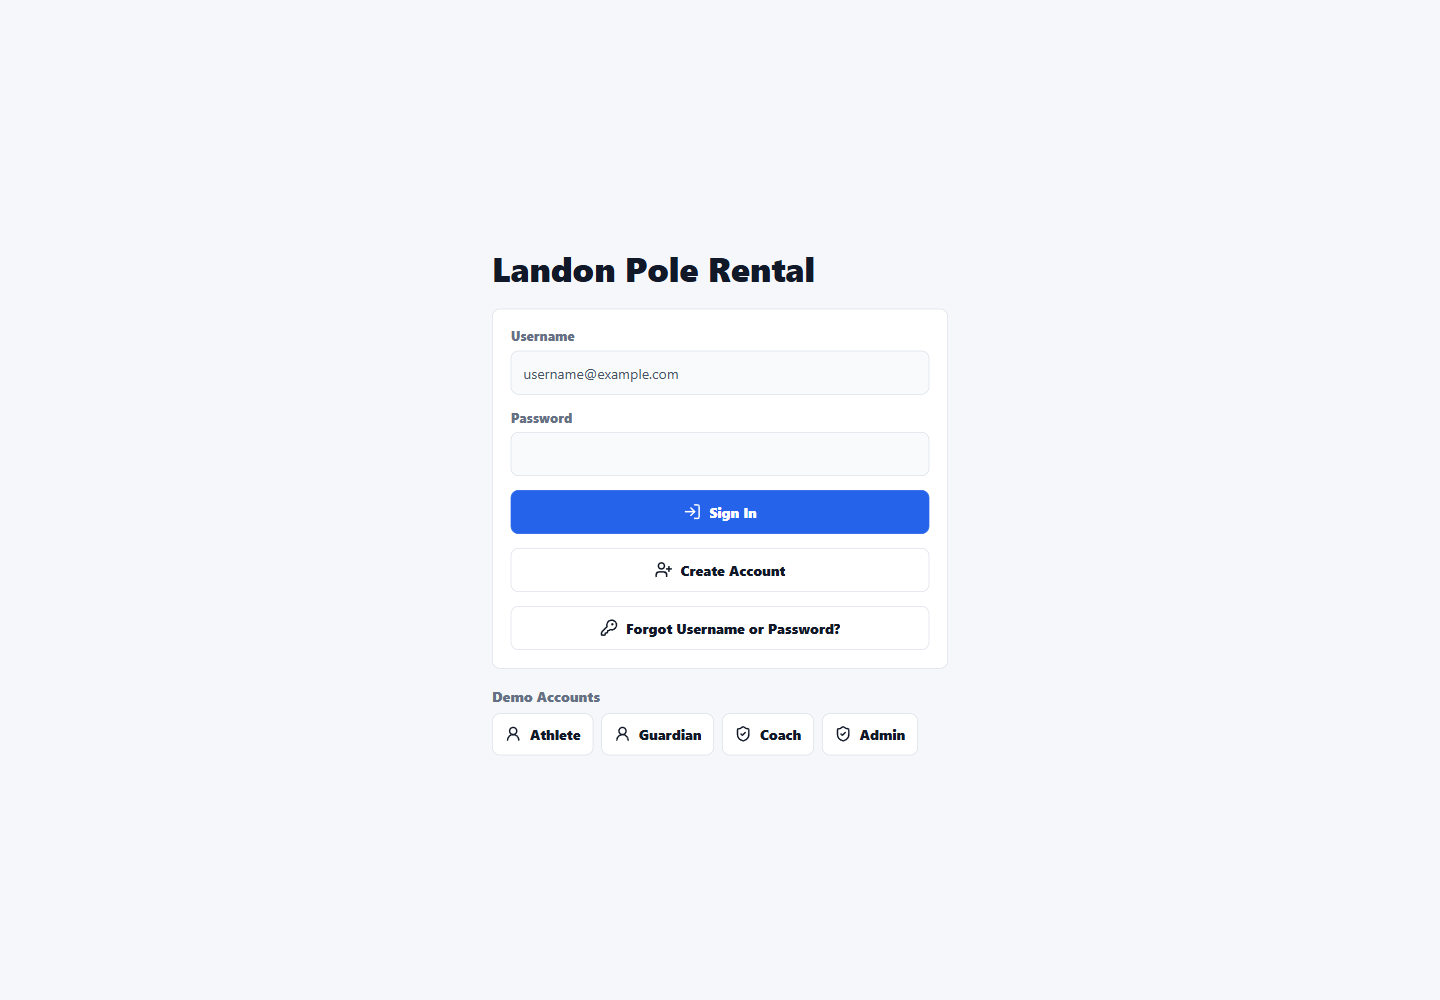
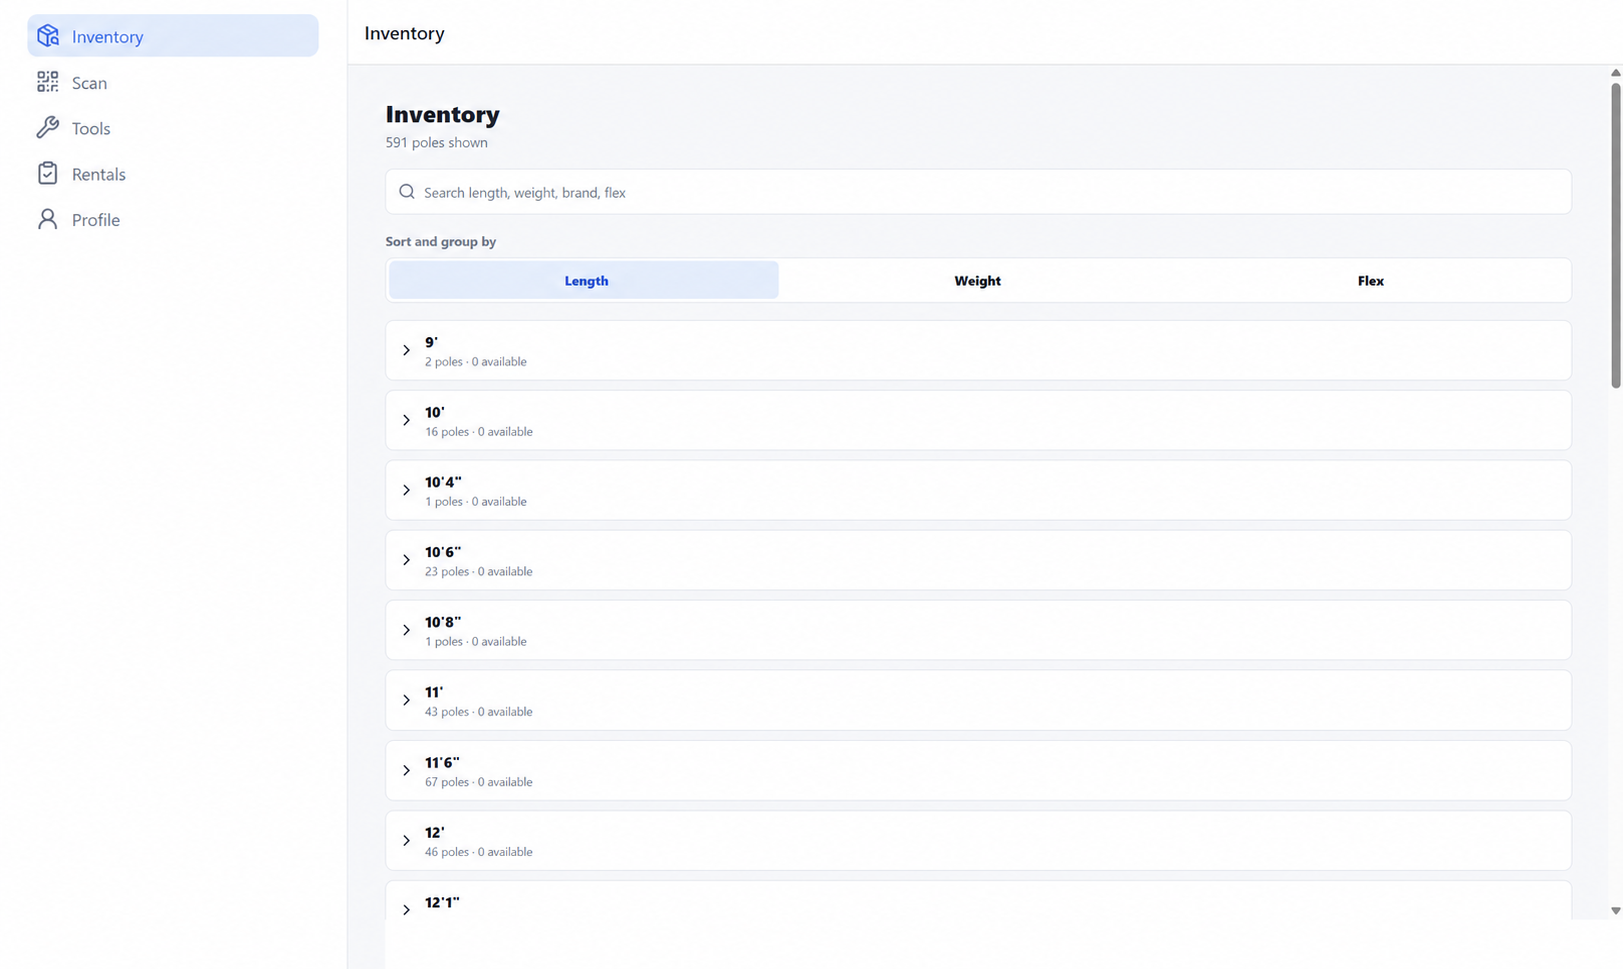
Prepare Pole Rental live recruiter demo showcase

diff --git a/app/projects/[slug]/page.tsx b/app/projects/[slug]/page.tsx
@@ -62,15 +62,24 @@ export default async function ProjectPage({ params }: ProjectPageProps) {
               <h1>{project.title}</h1>
               <p className="case-summary">{project.summary}</p>
               <div className="case-actions">
-                <a className="button button-primary" href={project.demoUrl}>
-                  Open read-only demo <span aria-hidden="true">→</span>
-                </a>
-                <a className="button button-secondary" href={project.liveUrl} target="_blank" rel="noreferrer">
+                {project.showReadOnlyDemo !== false && (
+                  <a className="button button-primary" href={project.demoUrl}>
+                    Open read-only demo <span aria-hidden="true">→</span>
+                  </a>
+                )}
+                <a
+                  className={project.showReadOnlyDemo === false ? "button button-primary" : "button button-secondary"}
+                  href={project.liveUrl}
+                  target="_blank"
+                  rel="noreferrer"
+                >
                   {project.liveLabel} <span aria-hidden="true">↗</span>
                 </a>
-                <a className="button button-quiet" href="mailto:sppierce34@yahoo.com">
-                  Discuss the project
-                </a>
+                {project.showDiscussion !== false && (
+                  <a className="button button-quiet" href="mailto:sppierce34@yahoo.com">
+                    Discuss the project
+                  </a>
+                )}
               </div>
             </div>
             <div className="case-facts" aria-label="Project facts">
@@ -92,7 +101,7 @@ export default async function ProjectPage({ params }: ProjectPageProps) {
               </div>
               <div>
                 <span>Demo</span>
-                <strong>Isolated sample data</strong>
+                <strong>{project.demoFact ?? "Isolated sample data"}</strong>
               </div>
             </div>
           </div>

diff --git a/lib/projects.ts b/lib/projects.ts
@@ -16,6 +16,9 @@ export type Project = {
   liveLabel: string;
   portfolioUrl: string;
   demoUrl: string;
+  showReadOnlyDemo?: boolean;
+  showDiscussion?: boolean;
+  demoFact?: string;
   stack: string[];
   highlights: string[];
   modelTraining?: {
@@ -175,11 +178,14 @@ export const projects: Project[] = [
     platforms: "Web, iOS, Android",
     role: "Product owner and full-stack engineer",
     image: "/projects/landon-pole-rental.png",
-    imageAlt: "Landon Pole Rental production sign-in screen",
-    liveUrl: "https://pole-rental.com",
+    imageAlt: "Authenticated Landon Pole Rental inventory browser showing searchable pole groups",
+    liveUrl: "https://pole-rental.com/recruiter-demo",
     liveLabel: "Open live application",
     portfolioUrl: "https://portfolio.pole-rental.com/projects/pole-rental",
     demoUrl: "https://portfolio.pole-rental.com/demos/pole-rental",
+    showReadOnlyDemo: false,
+    showDiscussion: false,
+    demoFact: "Fictional read-only tenant",
     stack: [
       "TypeScript",
       "Expo Router",

diff --git a/components/ProjectCard.tsx b/components/ProjectCard.tsx
@@ -25,9 +25,11 @@ export function ProjectCard({ project }: { project: Project }) {
           <a className="project-page-link" href={project.portfolioUrl}>
             View project page <span aria-hidden="true">→</span>
           </a>
-          <a href={project.demoUrl}>
-            Try demo <span aria-hidden="true">↗</span>
-          </a>
+          {project.showReadOnlyDemo !== false && (
+            <a href={project.demoUrl}>
+              Try demo <span aria-hidden="true">↗</span>
+            </a>
+          )}
           <a href={project.liveUrl} target="_blank" rel="noreferrer">
             Live app <span aria-hidden="true">↗</span>
           </a>

diff --git a/docs/recruiter-demos.md b/docs/recruiter-demos.md
@@ -1,8 +1,9 @@
 # Recruiter demos
 
-The portfolio includes a pre-authenticated, read-only demo for each featured
-project. These routes let recruiters explore representative product workflows
-without creating accounts in, or sending requests to, the production systems.
+The portfolio provides safe recruiter entry points for each featured project.
+Meet Manager and PV Video Capture use static, portfolio-only sample views.
+Pole Rental is moving to a separate fictional tenant inside the actual Expo
+application so future product updates are reflected in the demo automatically.
 
 ## Public routes
 
@@ -10,38 +11,50 @@ without creating accounts in, or sending requests to, the production systems.
   `https://portfolio.meetregistrationpv.com/demos/meet-manager`
 - PV Video Capture:
   `https://portfolio.landoncheckin.com/demos/video-capture`
-- Landon Pole Rental:
-  `https://portfolio.pole-rental.com/demos/pole-rental`
+- Landon Pole Rental, pending application deployment:
+  `https://pole-rental.com/recruiter-demo`
 
 ## Isolation boundary
 
-- Demo content is defined as fictional, static sample data in
-  `lib/demo-scenarios.ts`.
+- Meet Manager and PV Video Capture content is defined as fictional, static
+  sample data in `lib/demo-scenarios.ts`.
 - `components/ProjectDemo.tsx` switches among local views only. It has no
   network, browser-storage, form-submission, authentication, or persistence
   integration.
-- The demos do not call production APIs, databases, Stripe, media storage,
-  cameras, email, push services, or authentication providers.
+- Those two static demos do not call production APIs, databases, Stripe, media
+  storage, cameras, email, push services, or authentication providers.
 - No production application repository, account, permission, or deployment is
-  changed by the recruiter demos.
-- The interface clearly labels every route as isolated, sample-only, and
-  read-only.
+  changed by the two static recruiter demos.
+- The Pole Rental demo uses the production application code but a dedicated
+  fictional organization. Its normal checkout is simulated locally, and its
+  API rejects every authenticated non-read request for that organization. It
+  has no Stripe or production-rental records.
 
 ## Demonstrated workflows
 
 - Meet Manager: event overview, athlete check-in, and scoring state.
 - PV Video Capture: camera health, clip delivery, and model-review evidence.
-- Pole Rental: inventory, rental lifecycle, and staff operations.
+- Pole Rental: actual inventory search, pole selection, cart, and a simulated
+  checkout that creates no rental, reservation, agreement, or payment.
 
 ## Maintenance rules
 
 1. Keep all names, identifiers, organizations, meets, sessions, inventory, and
    activity records fictional.
-2. Do not add credentials or connect a demo view to a live service.
-3. Do not add actions that imply a production mutation. If a future demo needs
-   persistence, give it an independently provisioned environment and document
-   the boundary before publishing.
+2. Do not publish private credentials. A deliberately public demo login may be
+   used only for a tenant that is fictional, non-privileged, and blocked from
+   server-side mutations.
+3. Do not allow a recruiter flow to create production state or payment
+   activity. Keep a server-side write barrier even when the UI already
+   simulates the action.
 4. Update the matching project note, tests, handoff, and change log whenever a
    demo route or displayed feature changes.
-5. Verify the three routes on their product-owned portfolio domains after each
-   deployment.
+5. Verify the two portfolio routes and the Pole Rental application route after
+   each affected deployment.
+
+## Current publishing state
+
+The Pole Rental application work is in `sppierce34/landon-pole-rental` PR #4.
+This portfolio branch prepares the new screenshot and link but must not be
+published until that PR is merged, migration `0025` is applied, the API and web
+application are deployed, and `/recruiter-demo` passes a production smoke test.

diff --git a/docs/change-log.md b/docs/change-log.md
@@ -5,6 +5,51 @@ chronological order. Each entry should state scope, result, validation,
 publishing status, and remaining work. Never include credentials, DNS
 validation values, private data, or internal infrastructure addresses.
 
+## 2026-08-30 - Prepare the real Pole Rental recruiter demo and inventory showcase
+
+Scope:
+
+- Replaced the Pole Rental login image with Steven's authenticated inventory
+  capture and removed its Chrome tabs, address bar, and bookmarks.
+- Removed the Pole Rental `Open read-only demo` and `Discuss the project`
+  actions from the case study and removed the old demo link from its main-page
+  card.
+- Pointed the single `Open live application` action at the prepared
+  `/recruiter-demo` entry point in the actual Pole Rental application.
+
+Result:
+
+- The case study now presents a current production inventory workflow rather
+  than a sign-in form.
+- Once deployed, recruiters will enter a fictional 12-pole tenant through the
+  actual application code, browse inventory, add poles to the real cart UI,
+  and complete a simulated checkout without creating a rental, reservation,
+  agreement, account change, or Stripe activity.
+- Pole Rental application PR #4 implements the tenant, automatic login, local
+  checkout simulation, and an independent API write barrier.
+
+Validation:
+
+- Visually reviewed the cropped image and confirmed it contains no browser UI,
+  user identity, contact detail, credential, payment information, or token.
+- Added rendered-page regression coverage for the single CTA, updated image,
+  fictional-tenant fact, and absence of the two removed actions.
+- `npm test` passed the production build and all 11 rendered-page tests.
+- `npm run lint` completed with zero errors and the three existing
+  image-optimization warnings.
+
+Publishing:
+
+- Not published. The portfolio must not expose the new link until Pole Rental
+  PR #4 is merged, migration `0025` is applied, the API and self-hosted web app
+  are deployed, and the public recruiter route passes a smoke test.
+
+Follow-up:
+
+- Complete the application deployment first, then merge this portfolio branch,
+  publish it through the existing Sites project, and verify the affected
+  product-owned URLs.
+
 ## 2026-08-30 - Replace the PV Video Capture labeling screenshot
 
 Scope:

diff --git a/docs/screenshots.md b/docs/screenshots.md
@@ -6,7 +6,7 @@ The portfolio should demonstrate product workflows, not only authentication.
 | --- | --- | --- | --- |
 | Meet Manager | Authenticated event-operations dashboard | Optional scoring or results workflow | Captured August 2026 |
 | PV Video Capture | Authenticated model-assisted vault-phase review with active run-up prediction | Optional athlete clip library | Replaced August 30, 2026; browser chrome removed |
-| Landon Pole Rental | Production login | Inventory, rental status, or staff workflow | Isolated recruiter demo now covers the feature workflow; authenticated production screenshot remains optional |
+| Landon Pole Rental | Authenticated production inventory browser | Optional rental cart or staff workflow | Replaced August 30, 2026; browser chrome removed |
 
 ## Capture rules
 
@@ -27,3 +27,18 @@ The portfolio should demonstrate product workflows, not only authentication.
 - Review: the final 2,560 x 1,346 image begins at the application header and
   ends at the application status bar. It contains no account name, contact
   record, credential, token, infrastructure address, or browser UI.
+
+## Landon Pole Rental crop record
+
+- Public asset: `public/projects/landon-pole-rental.png`
+- Source: Steven-supplied authenticated Landon Pole Rental inventory capture
+  from August 30, 2026.
+- Crop: Chrome tabs, address bar, and bookmarks were removed while preserving
+  the complete application viewport from the left navigation through the
+  inventory scrollbar.
+- Review: the final 1,623 x 969 image shows the production inventory search,
+  grouping controls, aggregate 591-pole count, and length groups. It contains no user
+  identity, contact detail, credential, payment information, token, or browser
+  UI.
+- Public meaning: this image documents the production interface. The linked
+  recruiter demo uses a separate fictional 12-pole tenant.

diff --git a/docs/agent-handoff.md b/docs/agent-handoff.md
@@ -40,6 +40,21 @@ the `chatgpt.site` hostname. The Sites project identifier remains in
   and live-product links remain explicit. The live main page was verified to
   contain all three project-page URLs and all three demo URLs.
 
+### Pole Rental recruiter-demo transition
+
+- Pole Rental application PR #4 adds `/recruiter-demo`, a fictional 12-pole
+  tenant that uses the real Expo inventory/cart code, simulates checkout
+  locally, and rejects authenticated writes at the API boundary.
+- The portfolio branch `codex/pole-rental-recruiter-demo` replaces the login
+  hero with Steven's cropped authenticated inventory screenshot, removes the
+  Pole Rental `Open read-only demo` and `Discuss the project` actions, and
+  points the one remaining action to
+  `https://pole-rental.com/recruiter-demo`.
+- Neither change is live yet. Merge and deploy the application first: apply
+  migration `0025`, deploy the API and self-hosted web client, then smoke-test
+  the recruiter route. Only after that should this portfolio branch be merged
+  and published through the existing Sites project.
+
 ## GitHub public release
 
 - Portfolio source: `https://github.com/sppierce34/steven-pierce-engineering-portfolio`
@@ -145,3 +160,6 @@ There is no remaining custom-domain activation or resume-hostname work.
 - Resolve the current `image-size` and `nanoid` audit advisories in a dedicated
   dependency update. Re-run the full test, lint, audit, and deployment workflow
   because the complete fix currently moves `vinext` beyond the pinned beta.
+- Complete the Pole Rental recruiter-demo deployment and production smoke test,
+  then merge and publish the prepared portfolio update. Do not publish the
+  portfolio CTA while the application route is unavailable.

diff --git a/docs/projects/landon-pole-rental.md b/docs/projects/landon-pole-rental.md
@@ -3,12 +3,16 @@
 Public case study:
 `https://portfolio.pole-rental.com/projects/pole-rental`
 
-Read-only recruiter demo:
-`https://portfolio.pole-rental.com/demos/pole-rental`
+Live recruiter-demo entry point, pending application deployment:
+`https://pole-rental.com/recruiter-demo`
 
-The demo uses fictional inventory and rental records stored only in the
-portfolio. It has no authentication, payment, agreement, messaging, D1, R2, or
-production application connection.
+The recruiter route auto-authenticates a visitor into a separate fictional
+organization that uses the real Expo inventory and cart code. The seeded
+tenant has 12 sample poles and no Stripe customer, connected account,
+agreement, invoice, or rental records. Checkout ends in a local confirmation;
+the API independently rejects all authenticated write methods for the tenant.
+The route must not be linked publicly until migration `0025`, the API, and the
+self-hosted web application have been deployed and smoke-tested.
 
 ## Public summary
 
@@ -43,9 +47,13 @@ Stripe rather than the application database.
 
 ## Screenshot targets
 
-- Authenticated inventory browser
+- Authenticated inventory browser — approved and prepared August 30, 2026
 - Rental cart or checkout-readiness workflow
 - Staff pickup/return verification
 - Waitlist or rental-status screen
 
 Use a demo organization and sample inventory whenever possible.
+
+The current public asset shows the production inventory interface with 591
+poles and no customer identity or payment data. It is interface evidence, not
+the fictional dataset visitors will see in the recruiter demo.

diff --git a/docs/portfolio-hosting.md b/docs/portfolio-hosting.md
@@ -41,8 +41,8 @@ the current records from Sites and manage them through the domain provider.
   `https://portfolio.meetregistrationpv.com/demos/meet-manager`
 - PV Video Capture recruiter demo:
   `https://portfolio.landoncheckin.com/demos/video-capture`
-- Landon Pole Rental recruiter demo:
-  `https://portfolio.pole-rental.com/demos/pole-rental`
+- Landon Pole Rental recruiter demo, pending application deployment:
+  `https://pole-rental.com/recruiter-demo`
 
 The root request on `portfolio.landoncheckin.com` renders the PV Video Capture
 case study. The root request on `portfolio.pole-rental.com` renders the Landon
@@ -61,6 +61,8 @@ Only the dedicated `portfolio.` subdomains point to the Sites deployment. No
 application credentials, private data, or internal infrastructure addresses
 belong in the portfolio hosting configuration.
 
-Recruiter demos are portfolio-only routes backed by static fictional records.
-They do not share authentication, storage, APIs, or runtime bindings with the
-customer-facing applications.
+Meet Manager and PV Video Capture recruiter demos are portfolio-only routes
+backed by static fictional records. Pole Rental instead uses a dedicated,
+fictional application tenant with a server-side write barrier so recruiters
+can exercise the actual inventory and cart code without creating rental or
+payment state.

diff --git a/docs/public-content-guidelines.md b/docs/public-content-guidelines.md
@@ -15,8 +15,12 @@ been checked against project documentation. Mark estimates as estimates and
 date model results when they may change.
 
 Recruiter demos must use clearly labeled fictional sample data and remain
-isolated from production authentication, APIs, storage, payments, media, and
-customer records. Do not publish shared production credentials as a demo path.
+isolated from customer records, privileged roles, payments, agreements,
+messages, and other production mutations. A demo may use the actual
+application runtime, authentication, and read APIs only when it has a separate
+non-privileged tenant, contains no production customer data, and enforces an
+independent server-side write barrier. Do not publish shared customer or staff
+credentials as a demo path.
 
 ## Before making the repository public
 
